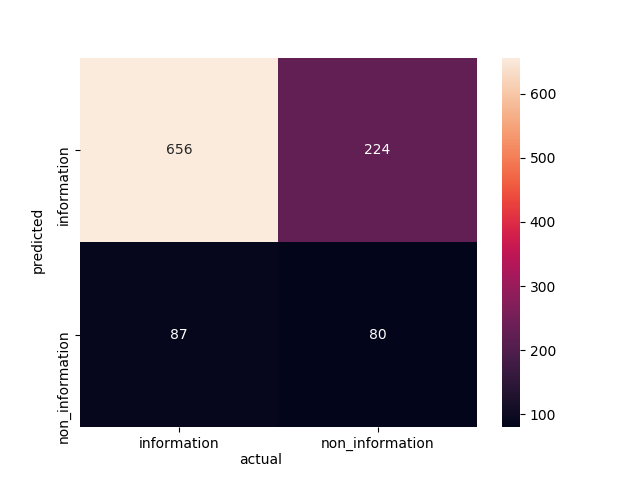
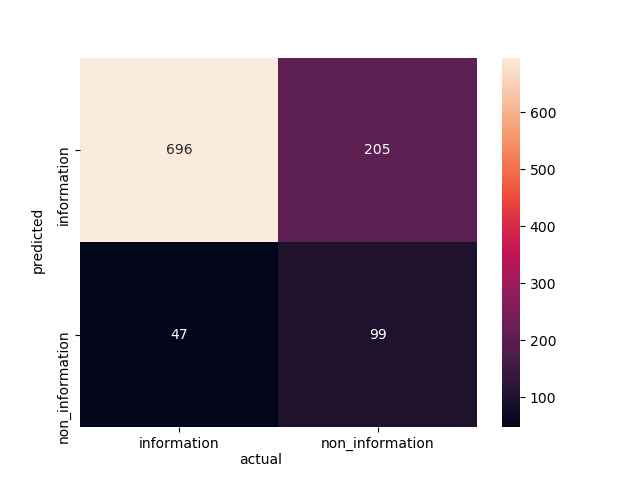
KFold shuffle on

diff --git a/src/classifier.py b/src/classifier.py
@@ -32,7 +32,7 @@ def classify():
         pipe = Pipeline([('vectorizer', tfidf_vector),
                          ('classifier', classifier)])
 
-        result = cross_val_predict(pipe, comments, labels, cv=KFold(n_splits=10))
+        result = cross_val_predict(pipe, comments, labels, cv=KFold(n_splits=10, shuffle=True))
 
         cm = confusion_matrix(result, labels, [information, non_information])
         saveHeatmap(cm, i.__name__)
@@ -40,7 +40,7 @@ def classify():
         print(i.__name__)
         stats[i.__name__] = []
         for metric in metrics:
-            stats[i.__name__].append(round(metric(result, labels),2))
+            stats[i.__name__].append(str(round(metric(result, labels), 2)))
 
     return stats
 
